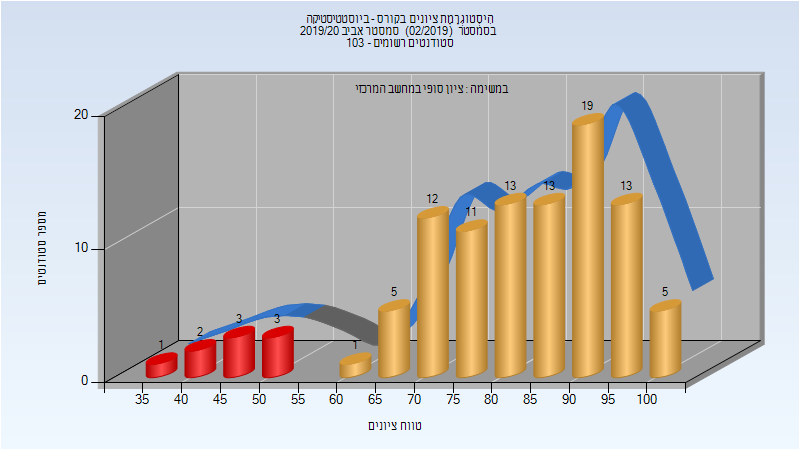
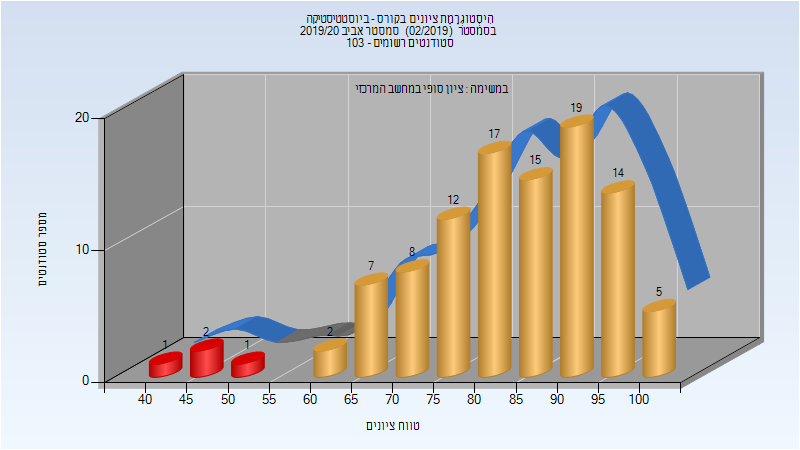
Deploy michael-maltsev/technion-histograms to github.com/michael-maltsev/technion-histograms.git:gh-pages

diff --git a/274182/index.html b/274182/index.html
@@ -39,11 +39,11 @@
 <td>סגל מנהלי - עם הרשאות מרצה אחראי</td>
 </tr>
 <tr>
-<td>הלוי שרה</td>
+<td>איינשטיין ליאת</td>
 <td>סגל מנהלי - עם הרשאות מרצה אחראי</td>
 </tr>
 <tr>
-<td>איינשטיין ליאת</td>
+<td>רובין אלאד</td>
 <td>סגל מנהלי - עם הרשאות מרצה אחראי</td>
 </tr>
 <tr>
@@ -108,6 +108,58 @@
 </tr>
 </tbody>
 </table>
+<h3>מבחן מועד ב'</h3>
+<p><img src="201902/Exam_B.png" alt="201902 Exam_B" /></p>
+<table>
+<thead>
+<tr>
+<th>סטודנטים</th>
+<th>עברו/נכשלו</th>
+<th>אחוז עוברים</th>
+<th>ציון מינימלי</th>
+<th>ציון מקסימלי</th>
+<th>ממוצע</th>
+<th>חציון</th>
+</tr>
+</thead>
+<tbody>
+<tr>
+<td>18</td>
+<td>14/4</td>
+<td>78</td>
+<td>41</td>
+<td>94</td>
+<td>66.611</td>
+<td>66.5</td>
+</tr>
+</tbody>
+</table>
+<h3>סופי מועד ב'</h3>
+<p><img src="201902/Final_B.png" alt="201902 Final_B" /></p>
+<table>
+<thead>
+<tr>
+<th>סטודנטים</th>
+<th>עברו/נכשלו</th>
+<th>אחוז עוברים</th>
+<th>ציון מינימלי</th>
+<th>ציון מקסימלי</th>
+<th>ממוצע</th>
+<th>חציון</th>
+</tr>
+</thead>
+<tbody>
+<tr>
+<td>18</td>
+<td>14/4</td>
+<td>78</td>
+<td>41</td>
+<td>95</td>
+<td>69.833</td>
+<td>71.5</td>
+</tr>
+</tbody>
+</table>
 <h3>סופי</h3>
 <p><img src="201902/Finals.png" alt="201902 Finals" /></p>
 <table>
@@ -124,13 +176,13 @@
 </thead>
 <tbody>
 <tr>
-<td>101</td>
-<td>92/9</td>
-<td>91</td>
-<td>39</td>
+<td>103</td>
+<td>99/4</td>
+<td>96</td>
+<td>41</td>
 <td>100</td>
-<td>81.436</td>
-<td>84</td>
+<td>83.146</td>
+<td>85</td>
 </tr>
 </tbody>
 </table>

diff --git a/274165/index.html b/274165/index.html
@@ -509,15 +509,15 @@
 <td>סגל מנהלי - עם הרשאות מרצה אחראי</td>
 </tr>
 <tr>
+<td>רובין אלאד</td>
+<td>סגל מנהלי - עם הרשאות מרצה אחראי</td>
+</tr>
+<tr>
 <td>בוניאל מורן</td>
 <td>סגל מנהלי - עם הרשאות מרצה אחראי</td>
 </tr>
 <tr>
 <td>איינשטיין ליאת</td>
-<td>סגל מנהלי - עם הרשאות מרצה אחראי</td>
-</tr>
-<tr>
-<td>הלוי שרה</td>
 <td>סגל מנהלי - עם הרשאות מרצה אחראי</td>
 </tr>
 <tr>
@@ -594,12 +594,12 @@
 </thead>
 <tbody>
 <tr>
-<td>93</td>
-<td>93/0</td>
+<td>94</td>
+<td>94/0</td>
 <td>100</td>
-<td>68</td>
+<td>74</td>
 <td>100</td>
-<td>91.409</td>
+<td>92.202</td>
 <td>94</td>
 </tr>
 </tbody>

diff --git a/274167/index.html b/274167/index.html
@@ -418,6 +418,32 @@
 </tr>
 </tbody>
 </table>
+<h3>מבחן מועד ב'</h3>
+<p><img src="201902/Exam_B.png" alt="201902 Exam_B" /></p>
+<table>
+<thead>
+<tr>
+<th>סטודנטים</th>
+<th>עברו/נכשלו</th>
+<th>אחוז עוברים</th>
+<th>ציון מינימלי</th>
+<th>ציון מקסימלי</th>
+<th>ממוצע</th>
+<th>חציון</th>
+</tr>
+</thead>
+<tbody>
+<tr>
+<td>22</td>
+<td>20/2</td>
+<td>91</td>
+<td>43</td>
+<td>100</td>
+<td>75</td>
+<td>77</td>
+</tr>
+</tbody>
+</table>
 <h3>סופי</h3>
 <p><img src="201902/Finals.png" alt="201902 Finals" /></p>
 <table>

diff --git a/277210/index.html b/277210/index.html
@@ -257,10 +257,6 @@
 <td>סגל מנהלי - עם הרשאות מרצה אחראי</td>
 </tr>
 <tr>
-<td>הלוי שרה</td>
-<td>סגל מנהלי - עם הרשאות מרצה אחראי</td>
-</tr>
-<tr>
 <td>איינשטיין ליאת</td>
 <td>סגל מנהלי - עם הרשאות מרצה אחראי</td>
 </tr>
@@ -270,6 +266,10 @@
 </tr>
 <tr>
 <td>כהן שרית</td>
+<td>סגל מנהלי - עם הרשאות מרצה אחראי</td>
+</tr>
+<tr>
+<td>רובין אלאד</td>
 <td>סגל מנהלי - עם הרשאות מרצה אחראי</td>
 </tr>
 </tbody>

diff --git a/275200/index.html b/275200/index.html
@@ -230,10 +230,6 @@
 <td>מרצה - אחראי מקצוע</td>
 </tr>
 <tr>
-<td>הלוי שרה</td>
-<td>סגל מנהלי - עם הרשאות מרצה אחראי</td>
-</tr>
-<tr>
 <td>כהן שרית</td>
 <td>סגל מנהלי - עם הרשאות מרצה אחראי</td>
 </tr>
@@ -243,6 +239,10 @@
 </tr>
 <tr>
 <td>איינשטיין ליאת</td>
+<td>סגל מנהלי - עם הרשאות מרצה אחראי</td>
+</tr>
+<tr>
+<td>רובין אלאד</td>
 <td>סגל מנהלי - עם הרשאות מרצה אחראי</td>
 </tr>
 <tr>

diff --git a/274138/index.html b/274138/index.html
@@ -394,11 +394,11 @@
 <td>סגל מנהלי - עם הרשאות מרצה אחראי</td>
 </tr>
 <tr>
-<td>כהן שרית</td>
+<td>רובין אלאד</td>
 <td>סגל מנהלי - עם הרשאות מרצה אחראי</td>
 </tr>
 <tr>
-<td>הלוי שרה</td>
+<td>כהן שרית</td>
 <td>סגל מנהלי - עם הרשאות מרצה אחראי</td>
 </tr>
 <tr>

diff --git a/274142/index.html b/274142/index.html
@@ -118,11 +118,11 @@
 <td>מרצה - אחראי מקצוע</td>
 </tr>
 <tr>
-<td>הלוי שרה</td>
+<td>איינשטיין ליאת</td>
 <td>סגל מנהלי - עם הרשאות מרצה אחראי</td>
 </tr>
 <tr>
-<td>איינשטיין ליאת</td>
+<td>רובין אלאד</td>
 <td>סגל מנהלי - עם הרשאות מרצה אחראי</td>
 </tr>
 <tr>

diff --git a/274166/index.html b/274166/index.html
@@ -313,7 +313,7 @@
 <td>סגל מנהלי - עם הרשאות מרצה אחראי</td>
 </tr>
 <tr>
-<td>הלוי שרה</td>
+<td>רובין אלאד</td>
 <td>סגל מנהלי - עם הרשאות מרצה אחראי</td>
 </tr>
 <tr>

diff --git a/274143/index.html b/274143/index.html
@@ -118,7 +118,7 @@
 </thead>
 <tbody>
 <tr>
-<td>קאפמן מיכאל</td>
+<td>ריסקין אריה</td>
 <td>מרצה - אחראי מקצוע</td>
 </tr>
 <tr>

diff --git a/274109/index.html b/274109/index.html
@@ -237,7 +237,7 @@
 </thead>
 <tbody>
 <tr>
-<td>שביט איתי</td>
+<td>שטרוה תומר</td>
 <td>מרצה - אחראי מקצוע</td>
 </tr>
 <tr>

diff --git a/274182/README.md b/274182/README.md
@@ -6,8 +6,8 @@
 | ---- | ---- |
 | קפלן נעם | מרצה - אחראי מקצוע |
 | בוניאל מורן | סגל מנהלי - עם הרשאות מרצה אחראי |
-| הלוי שרה | סגל מנהלי - עם הרשאות מרצה אחראי |
 | איינשטיין ליאת | סגל מנהלי - עם הרשאות מרצה אחראי |
+| רובין אלאד | סגל מנהלי - עם הרשאות מרצה אחראי |
 | כהן שרית | סגל מנהלי - עם הרשאות מרצה אחראי |
 | שפורן שירי | סגל מנהלי - עם הרשאות מרצה אחראי |
 
@@ -27,11 +27,27 @@
 | ---- | ---- | ---- | ---- | ---- | ---- | ---- |
 | 101 | 92/9 | 91 | 39 | 100 | 81.436 | 84 |
 
+### מבחן מועד ב'
+
+![201902 Exam_B](201902/Exam_B.png)
+
+| סטודנטים | עברו/נכשלו | אחוז עוברים | ציון מינימלי | ציון מקסימלי | ממוצע | חציון |
+| ---- | ---- | ---- | ---- | ---- | ---- | ---- |
+| 18 | 14/4 | 78 | 41 | 94 | 66.611 | 66.5 |
+
+### סופי מועד ב'
+
+![201902 Final_B](201902/Final_B.png)
+
+| סטודנטים | עברו/נכשלו | אחוז עוברים | ציון מינימלי | ציון מקסימלי | ממוצע | חציון |
+| ---- | ---- | ---- | ---- | ---- | ---- | ---- |
+| 18 | 14/4 | 78 | 41 | 95 | 69.833 | 71.5 |
+
 ### סופי
 
 ![201902 Finals](201902/Finals.png)
 
 | סטודנטים | עברו/נכשלו | אחוז עוברים | ציון מינימלי | ציון מקסימלי | ממוצע | חציון |
 | ---- | ---- | ---- | ---- | ---- | ---- | ---- |
-| 101 | 92/9 | 91 | 39 | 100 | 81.436 | 84 |
+| 103 | 99/4 | 96 | 41 | 100 | 83.146 | 85 |
 

diff --git a/274165/README.md b/274165/README.md
@@ -155,9 +155,9 @@
 | ---- | ---- |
 | הרשברג רות | מרצה - אחראי מקצוע |
 | כהן שרית | סגל מנהלי - עם הרשאות מרצה אחראי |
+| רובין אלאד | סגל מנהלי - עם הרשאות מרצה אחראי |
 | בוניאל מורן | סגל מנהלי - עם הרשאות מרצה אחראי |
 | איינשטיין ליאת | סגל מנהלי - עם הרשאות מרצה אחראי |
-| הלוי שרה | סגל מנהלי - עם הרשאות מרצה אחראי |
 | שפורן שירי | סגל מנהלי - עם הרשאות מרצה אחראי |
 
 ### מבחן מועד א'
@@ -182,5 +182,5 @@
 
 | סטודנטים | עברו/נכשלו | אחוז עוברים | ציון מינימלי | ציון מקסימלי | ממוצע | חציון |
 | ---- | ---- | ---- | ---- | ---- | ---- | ---- |
-| 93 | 93/0 | 100 | 68 | 100 | 91.409 | 94 |
+| 94 | 94/0 | 100 | 74 | 100 | 92.202 | 94 |
 
